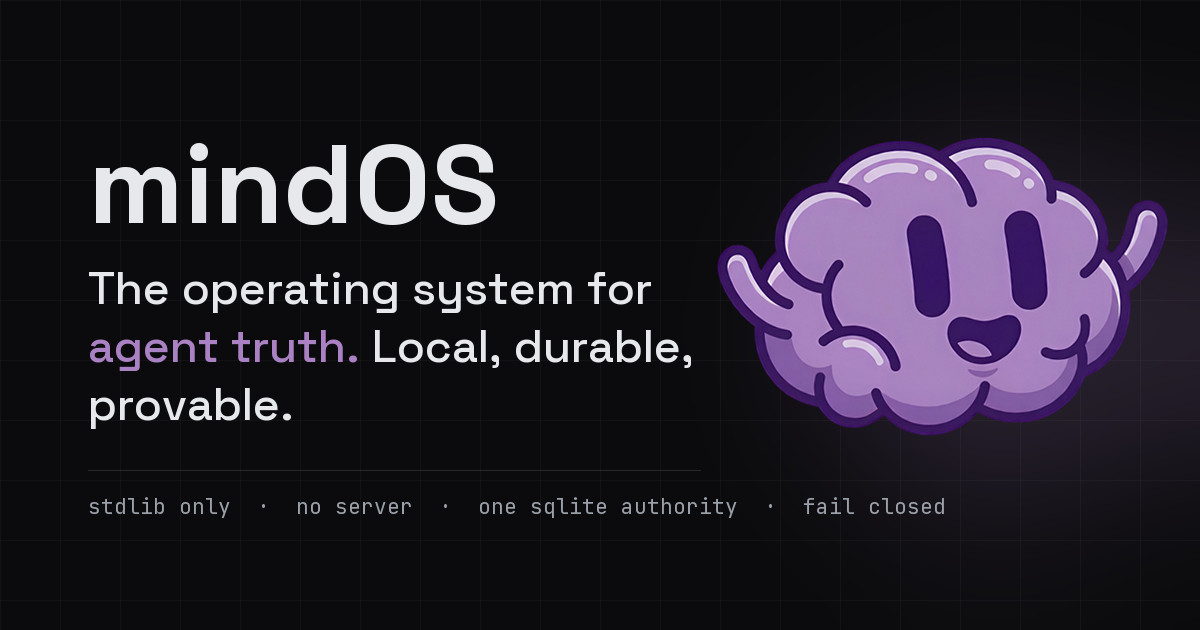
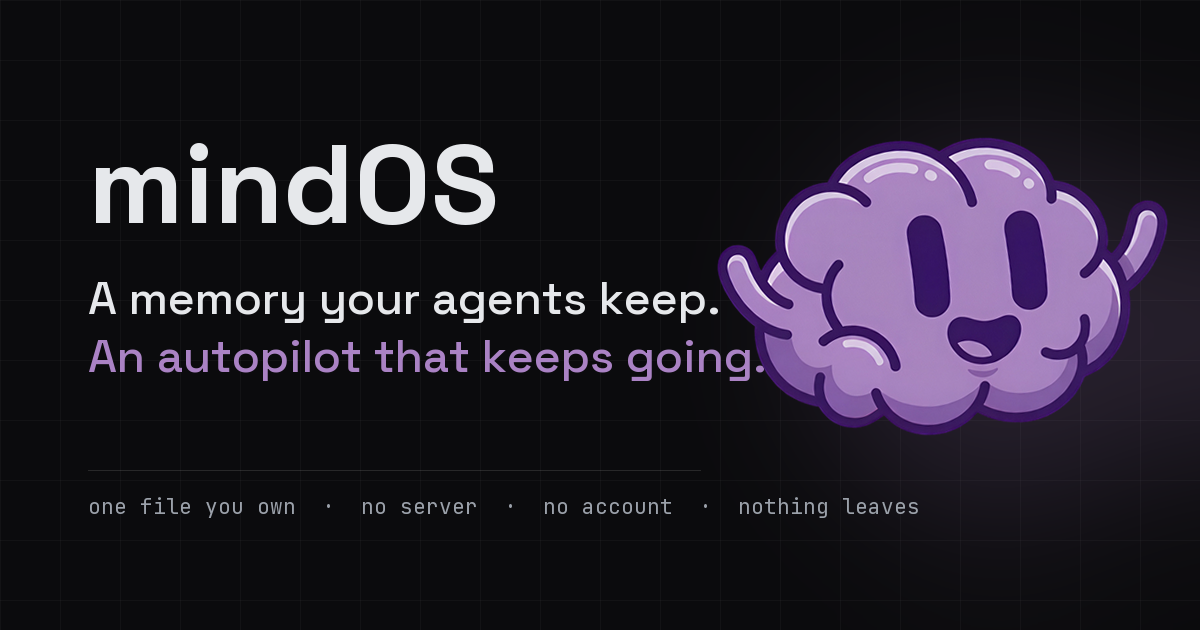
Rewrite the first half around memory and autopilot (#6)
Sections 00-06 led with concepts (agent truth, semantic memory, temporal
facts, durable local coordination plane) that mean nothing to a reader
who has not already read the architecture doc. They now lead with what
the reader gets: a memory that survives the session, an autopilot that
keeps working while they are away, and a receipt at the end of each job.

Section 01 is now three costs in the order a user meets them (forgets,
stalls, unverifiable) rather than three abstractions, and the callout
turns on the root cause instead of restating the thesis. The DIM grid in
02 trades its labels for plain names and its definitions for savings.

Jargon (leases, epochs, hash chains, 0600, FTS5) still lives in 07-15,
where the band divider now explicitly warns it gets technical.

Title, meta description, OG text, og.png regenerated to match.

Changed region(s): [[0.0617, 0.4222, 0.6475, 0.6937], [0.0617, 0.7841, 0.8017, 0.8143]]

diff --git a/site/index.html b/site/index.html
@@ -3,14 +3,14 @@
 <head>
 <meta charset="utf-8">
 <meta name="viewport" content="width=device-width,initial-scale=1">
-<title>mindOS — the durable local operating system for Hermes & cooperating agents</title>
-<meta name="description" content="mindOS v0.5.0 — a durable local coordination plane for Hermes and cooperating AI agents. Leases that fence, receipts that seal, a hash-chained audit that proves it. Local by design, stdlib only, no server.">
+<title>mindOS — a second memory for your AI agents</title>
+<meta name="description" content="Your agents forget everything between sessions and stall the moment you look away. mindOS is a memory that survives the session, an autopilot that keeps the work moving while you’re gone, and a receipt at the end of every job so you can check it. Runs on your machine, no server, no account.">
 <link rel="preconnect" href="https://fonts.googleapis.com">
 <link rel="preconnect" href="https://fonts.gstatic.com" crossorigin>
 <link href="https://fonts.googleapis.com/css2?family=Inter:wght@400;500&family=Space+Grotesk:wght@400;500;600;700&family=JetBrains+Mono:wght@400;500&display=swap" rel="stylesheet">
 <meta name="theme-color" content="#0a0a0c">
-<meta property="og:title" content="mindOS — the durable local operating system for Hermes & cooperating agents">
-<meta property="og:description" content="Leases that fence, receipts that seal, a hash-chained audit that proves it. Local by design, stdlib only, no server.">
+<meta property="og:title" content="mindOS — a second memory for your AI agents">
+<meta property="og:description" content="A memory your agents keep between sessions. An autopilot that keeps working while you’re away. A receipt at the end of every job. All on your machine — no server, no account.">
 <meta property="og:type" content="website">
[1 lines of base64/hex data omitted]
 <link rel="apple-touch-icon" sizes="180x180" href="/apple-touch-icon.png">
@@ -19,7 +19,7 @@
 <meta property="og:image" content="https://mindos-site.ideatorx.workers.dev/og.png">
 <meta property="og:image:width" content="1200">
 <meta property="og:image:height" content="630">
-<meta property="og:image:alt" content="mindOS — the operating system for agent truth. Local, durable, provable.">
+<meta property="og:image:alt" content="mindOS — a memory your agents keep, and an autopilot that keeps going.">
 <meta name="twitter:card" content="summary_large_image">
 <meta name="twitter:image" content="https://mindos-site.ideatorx.workers.dev/og.png">
 <style>
@@ -808,16 +808,16 @@ body>header,body>main,body>section,body>footer,body>.band,body>.marquee{position
   </div>
   <div id="pixgrid" aria-hidden="true"></div>
   <div class="wrap heroinner">
-    <span class="eyebrow rv"><span class="pulse"></span><span class="etxt">durable local coordination plane</span></span>
-    <h1 class="lm" id="heroTitle">The operating system for <span class="g">agent truth</span>. Local, durable, provable.</h1>
-    <p class="lede rv" style="--d:.15s">mindOS is a durable local coordination plane for <b>Hermes</b> and cooperating AI agents. It keeps one SQLite authority, leases that fence, sealed receipts, and a hash-chained audit, so when an agent claims something is done, you can prove it. <b>Stdlib only. No server. No third-party packages.</b></p>
+    <span class="eyebrow rv"><span class="pulse"></span><span class="etxt">a second memory for your agents</span></span>
+    <h1 class="lm" id="heroTitle">Your agents forget everything. <span class="g">mindOS doesn’t.</span></h1>
+    <p class="lede rv" style="--d:.15s">Every session starts from zero. Every question stops the work. Every “done” is just a claim. mindOS is <b>a memory that survives the session</b>, <b>an autopilot that keeps going while you’re away</b>, and <b>a receipt at the end of every job</b>. All on your machine. <b>No server. No account.</b></p>
     <div class="herocta rv" style="--d:.3s">
       <a class="btn ghbtn" href="https://github.com/idea-torx/mindOS" target="_blank" rel="noopener" aria-label="mindOS on GitHub" title="mindOS on GitHub"><svg aria-hidden="true"><use href="#ghmark"/></svg></a>
       <a class="btn primary" href="#install">Read the install <span class="arr">→</span></a>
       <a class="btn" href="#audit">See the audit chain <span class="arr">→</span></a>
     </div>
     <div class="herofoot rv" style="--d:.45s">
-      <span>python 3.9+</span><span>single sqlite authority</span><span>fail closed</span><span>fsl-1.1-mit</span>
+      <span>python 3.9+</span><span>one file you own</span><span>stops rather than guesses</span><span>fsl-1.1-mit</span>
     </div>
   </div>
   <div class="heromascot mascot" aria-hidden="true"></div>
@@ -833,8 +833,8 @@ body>header,body>main,body>section,body>footer,body>.band,body>.marquee{position
     <div class="sechead rv">
       <span class="halftag">the human half</span>
       <div class="kick"><span class="idx">01</span><span class="rule"></span>why</div>
-      <h2 class="lm">Agents are fast. Claims are cheap. Truth is not.</h2>
-      <p>Any agent can say <b>“done.”</b> The hard question is whether it is true — and whether you could show that to someone else, tomorrow, without re-trusting the agent. Three ways fleets quietly fail, and the fix each one needs.</p>
+      <h2 class="lm">Agents are fast. Then they forget, stall, and can’t prove it.</h2>
+      <p>The hour an agent saves you comes straight back out of your day — re-explaining, restarting, double-checking. Three places it leaks.</p>
     </div>
     <div class="synlink rv" style="--d:.35s" aria-hidden="true">
       <span class="sl" style="--i:0"></span><span class="sd" style="--i:0"></span><span class="sl" style="--i:1"></span><span class="sd" style="--i:1"></span><span class="sl" style="--i:2"></span><span class="sd" style="--i:2"></span><span class="sl" style="--i:3"></span>
@@ -842,23 +842,23 @@ body>header,body>main,body>section,body>footer,body>.band,body>.marquee{position
     <div class="cards" style="grid-template-columns:repeat(3,1fr)">
       <div class="card rv" style="--d:.05s"><span class="tick">01</span>
         <svg class="ico" viewBox="0 0 34 34" fill="none" stroke="currentColor" stroke-width="1.5"><path d="M6 24 L14 12 L20 19 L28 8"/><path d="M22 8 H28 V14"/></svg>
-        <h3><span class="num">A</span>Claims, not facts</h3>
-        <p>“It’s done,” “in progress,” “we decided X” — sentences with nothing to check them against. The fix: a state is a <b>durable fact with citations</b>, written by the plane, not narrated by the agent.</p>
+        <h3><span class="num">A</span>It forgets everything you told it</h3>
+        <p>Every new session starts cold. You re-describe the project, the conventions, the thing you already decided twice. <b>The agent isn’t learning — you’re repeating.</b> Whatever it worked out last Tuesday died with the window.</p>
       </div>
       <div class="card rv" style="--d:.15s"><span class="tick">02</span>
         <svg class="ico" viewBox="0 0 34 34" fill="none" stroke="currentColor" stroke-width="1.5"><circle cx="10" cy="10" r="4"/><circle cx="24" cy="10" r="4"/><circle cx="10" cy="24" r="4"/><circle cx="24" cy="24" r="4"/><path d="M10 14 V20 M24 14 V20 M14 10 H20 M14 24 H20"/></svg>
-        <h3><span class="num">B</span>Truth in five places</h3>
-        <p>Sessions, notes, decisions, handoffs, memories — each in its own file, owned by no one, drifting apart. The fix: <b>one SQLite authority per home</b> — state.db, temporal.db, receipts, memories all in the same place that owns them.</p>
+        <h3><span class="num">B</span>It stops the moment you look away</h3>
+        <p>It hits a question only you can answer — and then just sits there. Or it dies, and nothing notices. <b>You come back after two hours to work that stopped after ten minutes</b>, with no note explaining why.</p>
       </div>
       <div class="card rv" style="--d:.25s"><span class="tick">03</span>
         <svg class="ico" viewBox="0 0 34 34" fill="none" stroke="currentColor" stroke-width="1.5"><path d="M17 5 A12 12 0 1 0 29 17"/><path d="M29 17 V9 M29 17 H21"/><circle cx="17" cy="17" r="2.4" fill="currentColor" stroke="none"/></svg>
-        <h3><span class="num">C</span>Recovery by folklore</h3>
-        <p>When a process dies mid-task, teams re-derive who owned what from memory. The fix: recover from the log — <b>stale leases are swept, fencing epochs reject the stale holder</b>, and the audit chain says who did what.</p>
+        <h3><span class="num">C</span>You can’t check what it did</h3>
+        <p>“It’s done.” Nothing sits behind that sentence you can open. So you take its word and hope, or you spend an hour confirming — <b>the same hour it was supposed to save you</b>.</p>
       </div>
     </div>
     <div class="callout rv" style="--d:.35s">
-      <div class="cl">the question it answers</div>
-      <p>Every surface of mindOS — tasks, leases, memory, audit — exists to keep one answer current: <b>“what is true right now, and what evidence proves it?”</b> That question comes from ARCHITECTURE.md, and it is the whole product.</p>
+      <div class="cl">the turn</div>
+      <p>All three are the same problem: <b>everything your agents know lives inside a session that ends.</b> mindOS moves it outside — into one place on your machine that <b>remembers between sessions, keeps the work moving while you’re gone, and writes down what happened as it happens.</b> Not the agent’s account of the day. The day itself.</p>
     </div>
   </div>
 </section>
@@ -872,23 +872,23 @@ body>header,body>main,body>section,body>footer,body>.band,body>.marquee{position
   <div class="wrap">
     <div class="sechead rv">
       <div class="kick"><span class="idx">02</span><span class="rule"></span>what it is</div>
-      <h2 class="lm">A control tower, not a pile of tools</h2>
-      <p>mindOS sits between Hermes, its cooperating agents, and the work itself. It is a <b>durable local coordination plane</b>: the single place where ownership, memory, facts, and evidence are defined — and where they can be checked.</p>
+      <h2 class="lm">The part of your agents that doesn’t reset</h2>
+      <p>Your agents come and go; this stays. It holds what they learned, what you decided, who is working on what, and how each job ended — so the next session starts where the last one stopped instead of at zero. Eight things it remembers for you, and what each one saves you:</p>
     </div>
     <div class="dims rv" style="--d:.1s">
-      <div class="dim"><span class="dnum">DIM 01</span><div class="dname">execution truth</div><div class="ddesc">who owns what, under which lease, at which epoch</div></div>
-      <div class="dim"><span class="dnum">DIM 02</span><div class="dname">semantic memory</div><div class="ddesc">memories + memories_fts, same authority as the tasks</div></div>
-      <div class="dim"><span class="dnum">DIM 03</span><div class="dname">temporal facts</div><div class="ddesc">assertions with validity windows — current vs historical</div></div>
-      <div class="dim"><span class="dnum">DIM 04</span><div class="dname">session / context</div><div class="ddesc">read-only transcript adapters into a rebuildable cache</div></div>
-      <div class="dim"><span class="dnum">DIM 05</span><div class="dname">agents / handoffs</div><div class="ddesc">durable ownership transfer between cooperating agents</div></div>
-      <div class="dim"><span class="dnum">DIM 06</span><div class="dname">evidence / receipts</div><div class="ddesc">sealed 0600 files with recorded hashes and citations</div></div>
-      <div class="dim"><span class="dnum">DIM 07</span><div class="dname">recovery / rollback</div><div class="ddesc">lease sweeps, backups, one-transaction migrations</div></div>
-      <div class="dim"><span class="dnum">DIM 08</span><div class="dname">policy / provenance</div><div class="ddesc">grants, quarantine, and a hash chain that proves it all</div></div>
+      <div class="dim"><span class="dnum">DIM 01</span><div class="dname">who’s doing what</div><div class="ddesc">two agents never quietly work on the same thing</div></div>
+      <div class="dim"><span class="dnum">DIM 02</span><div class="dname">what it already learned</div><div class="ddesc">your setup, explained once — not at the top of every session</div></div>
+      <div class="dim"><span class="dnum">DIM 03</span><div class="dname">what’s true today</div><div class="ddesc">last month’s decision doesn’t get quoted back at you as current</div></div>
+      <div class="dim"><span class="dnum">DIM 04</span><div class="dname">what it read first</div><div class="ddesc">when it gets something wrong, you can see what it was working from</div></div>
+      <div class="dim"><span class="dnum">DIM 05</span><div class="dname">handing work over</div><div class="ddesc">a job passed between agents doesn’t get dropped in the gap</div></div>
+      <div class="dim"><span class="dnum">DIM 06</span><div class="dname">proof it happened</div><div class="ddesc">one small file to open instead of re-reading the whole conversation</div></div>
+      <div class="dim"><span class="dnum">DIM 07</span><div class="dname">picking itself back up</div><div class="ddesc">an agent that dies overnight doesn’t cost you the morning</div></div>
+      <div class="dim"><span class="dnum">DIM 08</span><div class="dname">what it’s allowed to do</div><div class="ddesc">an agent can’t quietly widen its own permissions</div></div>
     </div>
     <div class="equations">
-      <div class="eq rv" style="--d:.05s"><span class="t">agent</span><span class="op">+</span><span class="t">task</span><span class="op">+</span><span class="t">lease</span><span class="op">=</span><span class="res">safe ownership</span></div>
-      <div class="eq rv" style="--d:.15s"><span class="t">policy</span><span class="op">+</span><span class="t">receipt</span><span class="op">+</span><span class="t">audit chain</span><span class="op">=</span><span class="res">enforceable definition of done</span></div>
-      <div class="eq rv" style="--d:.25s"><span class="t">memory</span><span class="op">+</span><span class="t">facts</span><span class="op">+</span><span class="t">context</span><span class="op">=</span><span class="res">current-vs-historical truth</span></div>
+      <div class="eq rv" style="--d:.05s"><span class="t">one job</span><span class="op">+</span><span class="t">one owner</span><span class="op">+</span><span class="t">a timer</span><span class="op">=</span><span class="res">no duplicated work</span></div>
+      <div class="eq rv" style="--d:.15s"><span class="t">rules</span><span class="op">+</span><span class="t">a receipt</span><span class="op">+</span><span class="t">a log nobody can edit</span><span class="op">=</span><span class="res">a “done” you can check</span></div>
+      <div class="eq rv" style="--d:.25s"><span class="t">memory</span><span class="op">+</span><span class="t">decisions</span><span class="op">+</span><span class="t">what it read</span><span class="op">=</span><span class="res">it starts already knowing</span></div>
     </div>
   </div>
 </section>
@@ -903,7 +903,7 @@ body>header,body>main,body>section,body>footer,body>.band,body>.marquee{position
     <div class="sechead rv">
       <div class="kick"><span class="idx">03</span><span class="rule"></span>completion</div>
       <h2 class="lm">“Done” is a document</h2>
-      <p>A task does not complete with a sentence. It completes with a <b>sealed receipt</b> — a file on disk, written 0600, citing the evidence that produced the result, and appended to the audit chain. No live lease at close time? The completion is rejected, not repaired.</p>
+      <p>A job does not finish because an agent says so. It finishes when the system writes a <b>receipt</b> — a small file on your disk listing what was done, what it rests on, and when. Answering “so what actually happened?” becomes <b>opening one file</b> instead of re-reading a 40,000-word conversation. And if the agent has quietly lost its hold on the job, the close is refused — mindOS would rather stop than write down something it can’t stand behind.</p>
     </div>
     <div class="cards" style="grid-template-columns:1.15fr 1fr">
       <div class="receipt rv" style="--d:.1s">
@@ -919,9 +919,9 @@ body>header,body>main,body>section,body>footer,body>.band,body>.marquee{position
         </div>
       </div>
       <div style="display:grid;align-content:start;gap:14px">
-        <div class="card rv" style="--d:.15s"><span class="tick">01</span><h3>Sealed before close</h3><p>The receipt is written and hashed <b>before</b> the task completes. A completion without a live lease is rejected at the gate — fail closed, by design.</p></div>
-        <div class="card rv" style="--d:.22s"><span class="tick">02</span><h3>Citations, not prose</h3><p>Receipts cite <b>evidence ids</b>, not narrative. The audit chain can replay each citation; <code>complete --recall-digest</code> ties the close back to the exact context pack the agent worked from.</p></div>
-        <div class="card rv" style="--d:.29s"><span class="tick">03</span><h3>0600 on disk</h3><p>Receipts are readable by the operator’s user and by no one else. The secret guard screens notes and handoffs on the way in — <b>secrets never enter the plane, and payloads never echo them back.</b></p></div>
+        <div class="card rv" style="--d:.15s"><span class="tick">01</span><h3>Written before it counts</h3><p>The receipt is created and fingerprinted <b>before</b> the job is marked done. An agent that has quietly lost its claim cannot close the job — the system stops instead of papering over it.</p></div>
+        <div class="card rv" style="--d:.22s"><span class="tick">02</span><h3>Evidence, not a summary</h3><p>A receipt points at the <b>specific things it relied on</b>, so you can follow each one back yourself. It also records exactly what the agent had been given to read — so “it didn’t know” is something you can check.</p></div>
+        <div class="card rv" style="--d:.29s"><span class="tick">03</span><h3>Private to you</h3><p>Receipts are readable by your user account and nobody else’s. Anything that looks like a password or a key is stripped on the way in — <b>secrets never get into the system, so they can never leak back out of it.</b></p></div>
       </div>
     </div>
   </div>
@@ -936,12 +936,12 @@ body>header,body>main,body>section,body>footer,body>.band,body>.marquee{position
     <div class="sechead rv">
       <div class="kick"><span class="idx">04</span><span class="rule"></span>the boundary</div>
       <h2 class="lm">The seam it will not cross</h2>
-      <p>Autonomy in mindOS is <b>granted, bounded, and audited</b> — declarations bind an exact model and provider with an expiry window, and every refusal outside the grant is written to the chain. And there are actions the system never takes on its own:</p>
+      <p>Agents only get the freedom you hand them — in writing, tied to a specific model, with an expiry date. Every time one tries to step outside that, <b>the attempt is written down</b>. And there are four things it will never do on its own, no matter what you grant:</p>
     </div>
     <div class="cards" style="grid-template-columns:repeat(4,1fr)">
-      <div class="card rv" style="--d:.05s"><span class="tick">✕</span><h3>merge</h3><p>Stays with a human. The plane prepares; a person decides.</p></div>
+      <div class="card rv" style="--d:.05s"><span class="tick">✕</span><h3>merge</h3><p>Stays with a human. mindOS gets the change ready; a person decides.</p></div>
       <div class="card rv" style="--d:.12s"><span class="tick">✕</span><h3>deploy</h3><p>Stays with a human. No self-release, ever.</p></div>
-      <div class="card rv" style="--d:.19s"><span class="tick">✕</span><h3>external communication</h3><p>Stays with a human. Botmail envelopes carry provenance — they do not remove the operator.</p></div>
+      <div class="card rv" style="--d:.19s"><span class="tick">✕</span><h3>external communication</h3><p>Stays with a human. It can draft, and the draft is tagged with where it came from — but a person sends it.</p></div>
       <div class="card rv" style="--d:.26s"><span class="tick">✕</span><h3>live-data remediation</h3><p>Stays with a human. Nothing is rewritten in production without a person.</p></div>
     </div>
     <div class="callout rv" style="--d:.32s">
@@ -957,17 +957,17 @@ body>header,body>main,body>section,body>footer,body>.band,body>.marquee{position
 <section id="day" class="sec" data-spy>
   <div class="wrap">
     <div class="sechead rv">
-      <div class="kick"><span class="idx">05</span><span class="rule"></span>a day in the life</div>
-      <h2 class="lm">One task, from queue to receipt</h2>
-      <p>Nothing here is a demo trick — every line is a real command against a real home. Follow one task through the plane.</p>
+      <div class="kick"><span class="idx">05</span><span class="rule"></span>while you’re away</div>
+      <h2 class="lm">What it does when you’re not watching</h2>
+      <p>You queue a job in the morning and close the laptop. Here is what happens without you — including the part where it needs you, waits properly, and picks up again. Every line is a real command against a real setup.</p>
     </div>
     <div class="timeline">
-      <div class="tl rv"><span class="node"></span><div class="t">09:00 · operator</div><h4>Queue the work</h4><p>The task is created with tags, dependencies, and a budget. It is now a durable fact, visible to every agent that reads the plane.</p><span class="cmd"><span class="pr">$</span> python3 autopilot.py create "rebuild ingest pipeline" --tag critical --project trove</span></div>
-      <div class="tl rv" style="--d:.05s"><span class="node"></span><div class="t">09:04 · hermes</div><h4>Claim with context</h4><p>The lease is taken, the fencing epoch bumps, and the context pack is sealed with a digest <b>before the first turn</b> — provenance for context, not vibes.</p><span class="cmd"><span class="pr">$</span> python3 autopilot.py next --claim --recall</span></div>
-      <div class="tl rv" style="--d:.1s"><span class="node"></span><div class="t">14:52 · hermes</div><h4>Ask, and stop cleanly</h4><p>The agent needs a decision. It moves the task to waiting_for_user and releases the lease — the question is durable, and nothing spins while a human reads it.</p><span class="cmd"><span class="pr">$</span> python3 autopilot.py update task-41 --status waiting_for_user</span></div>
-      <div class="tl rv" style="--d:.15s"><span class="node"></span><div class="t">15:01 · operator</div><h4>Answer, and resume</h4><p>The decision lands as a fact; the task resumes with the same identity, the same budget, the same audit trail.</p><span class="cmd"><span class="pr">$</span> python3 autopilot.py resume task-41</span></div>
-      <div class="tl rv" style="--d:.2s"><span class="node"></span><div class="t">17:40 · hermes</div><h4>Close with a receipt</h4><p>A live lease is required at close. The receipt is sealed 0600, the citations are recorded, and the chain extends.</p><span class="cmd"><span class="pr">$</span> python3 autopilot.py complete task-41 --recall-digest 3c1e…77aa</span></div>
-      <div class="tl rv" style="--d:.25s"><span class="node"></span><div class="t">23:59 · the plane</div><h4>The bounded tick</h4><p>The nanny sweeps stale leases, checks budgets and handoffs, and reports a compact state — four states only: all_clear · working · hit_snag · decision_needed.</p><span class="cmd"><span class="pr">$</span> python3 ops.py nanny</span></div>
+      <div class="tl rv"><span class="node"></span><div class="t">09:00 · operator</div><h4>Queue the work</h4><p>The job is written down with its priority, what it waits on, and how much it may spend. From this moment it is a fact every agent can see — not a message someone might miss.</p><span class="cmd"><span class="pr">$</span> python3 autopilot.py create "rebuild ingest pipeline" --tag critical --project trove</span></div>
+      <div class="tl rv" style="--d:.05s"><span class="node"></span><div class="t">09:04 · hermes</div><h4>Claim with context</h4><p>Hermes takes the job, and now nobody else can. Before it does any work, the system records exactly what background it was handed — so later you can see <b>what it knew</b>, not what it says it knew.</p><span class="cmd"><span class="pr">$</span> python3 autopilot.py next --claim --recall</span></div>
+      <div class="tl rv" style="--d:.1s"><span class="node"></span><div class="t">14:52 · hermes</div><h4>Ask, and stop cleanly</h4><p>The agent hits a decision only a person can make. It parks the job, hands its claim back, and stops. The question is written down and waiting — nothing burns time spinning while you read it.</p><span class="cmd"><span class="pr">$</span> python3 autopilot.py update task-41 --status waiting_for_user</span></div>
+      <div class="tl rv" style="--d:.15s"><span class="node"></span><div class="t">15:01 · operator</div><h4>Answer, and resume</h4><p>Your answer is recorded as a fact, not a chat message. The job picks up where it left off — same identity, same budget, same trail behind it.</p><span class="cmd"><span class="pr">$</span> python3 autopilot.py resume task-41</span></div>
+      <div class="tl rv" style="--d:.2s"><span class="node"></span><div class="t">17:40 · hermes</div><h4>Close with a receipt</h4><p>To finish, the agent must still hold the job. The receipt is written, locked to your account, and the record extends by one link that cannot be edited later.</p><span class="cmd"><span class="pr">$</span> python3 autopilot.py complete task-41 --recall-digest 3c1e…77aa</span></div>
+      <div class="tl rv" style="--d:.25s"><span class="node"></span><div class="t">23:59 · the plane</div><h4>The bounded tick</h4><p>Once a day the system checks itself: jobs abandoned by crashed agents are released, budgets and handoffs are reviewed, and you get one of four answers — all clear · working · hit a snag · needs a decision.</p><span class="cmd"><span class="pr">$</span> python3 ops.py nanny</span></div>
     </div>
   </div>
 </section>
@@ -980,7 +980,7 @@ body>header,body>main,body>section,body>footer,body>.band,body>.marquee{position
     <div class="sechead rv">
       <div class="kick"><span class="idx">06</span><span class="rule"></span>install</div>
       <h2 class="lm">Two commands. No server. No packages.</h2>
-      <p>Python 3.9 or newer, standard library only. Your state lives under <code style="font-family:var(--mono);font-size:.9em;color:var(--tx)">MINDOS_HOME</code> (or <code style="font-family:var(--mono);font-size:.9em;color:var(--tx)">HERMES_AUTOPILOT_HOME</code>), on your machine, under your user.</p>
+      <p>Python 3.9 or newer and nothing else — no packages to install, no service to run, no account to sign up for. Everything it stores lives in one folder on your machine, under your user, at <code style="font-family:var(--mono);font-size:.9em;color:var(--tx)">MINDOS_HOME</code> (or <code style="font-family:var(--mono);font-size:.9em;color:var(--tx)">HERMES_AUTOPILOT_HOME</code>). Nothing leaves it.</p>
     </div>
     <div class="term rv" style="--d:.1s">
       <div class="bar"><i></i><i></i><i></i><span class="ttl">autopilot · local</span></div>
@@ -1001,7 +1001,7 @@ body>header,body>main,body>section,body>footer,body>.band,body>.marquee{position
   <div class="wrap" data-para="0.05">
     <div class="bl rv">part two of two</div>
     <h3 class="rv" style="--d:.1s">Everything above, <em>as mechanism</em></h3>
-    <p class="rv" style="--d:.2s">Leases, epochs, hash chains, FTS5, sealed files. The half where the promises stop being claims and start being code.</p>
+    <p class="rv" style="--d:.2s">Leases, fencing epochs, hash chains, FTS5, sealed files. The first half made the promises; this half is the code that keeps them. It gets technical from here.</p>
     <div class="invar rv" style="--d:.3s">
       <div class="iv"><span class="n">INV 1</span><span class="t">single authority</span><span class="d">one sqlite file owns the home</span></div>
       <div class="iv"><span class="n">INV 2</span><span class="t">fail closed</span><span class="d">unclear is unsafe — the gate holds</span></div>
